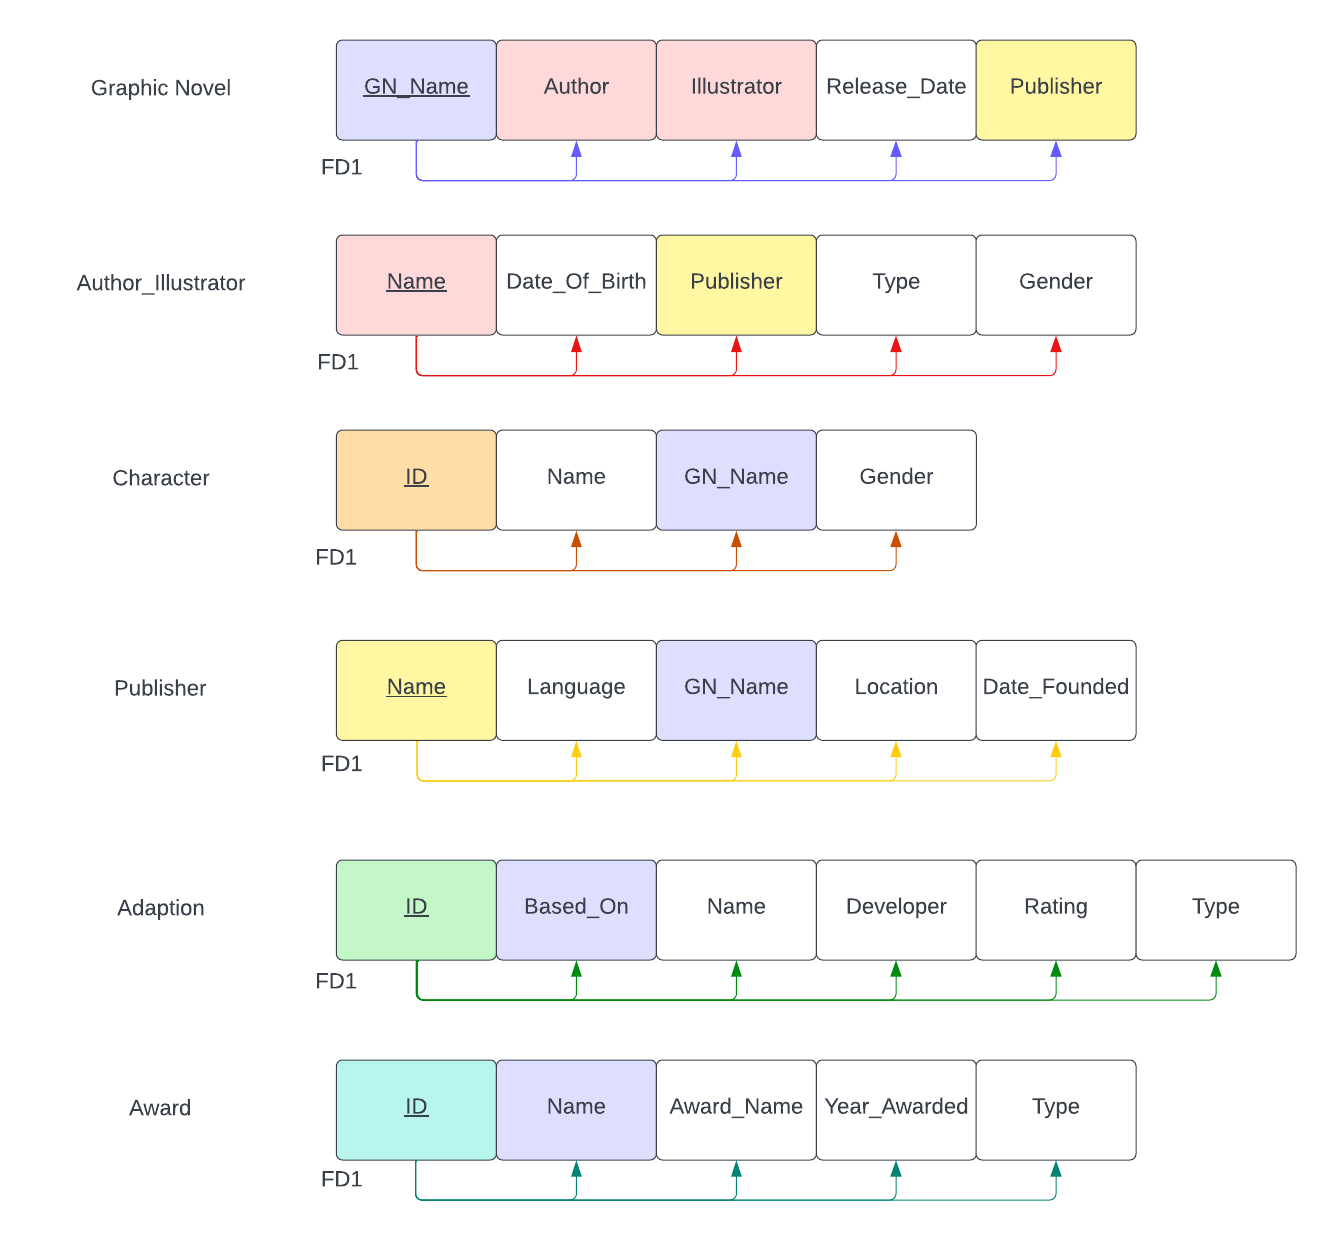
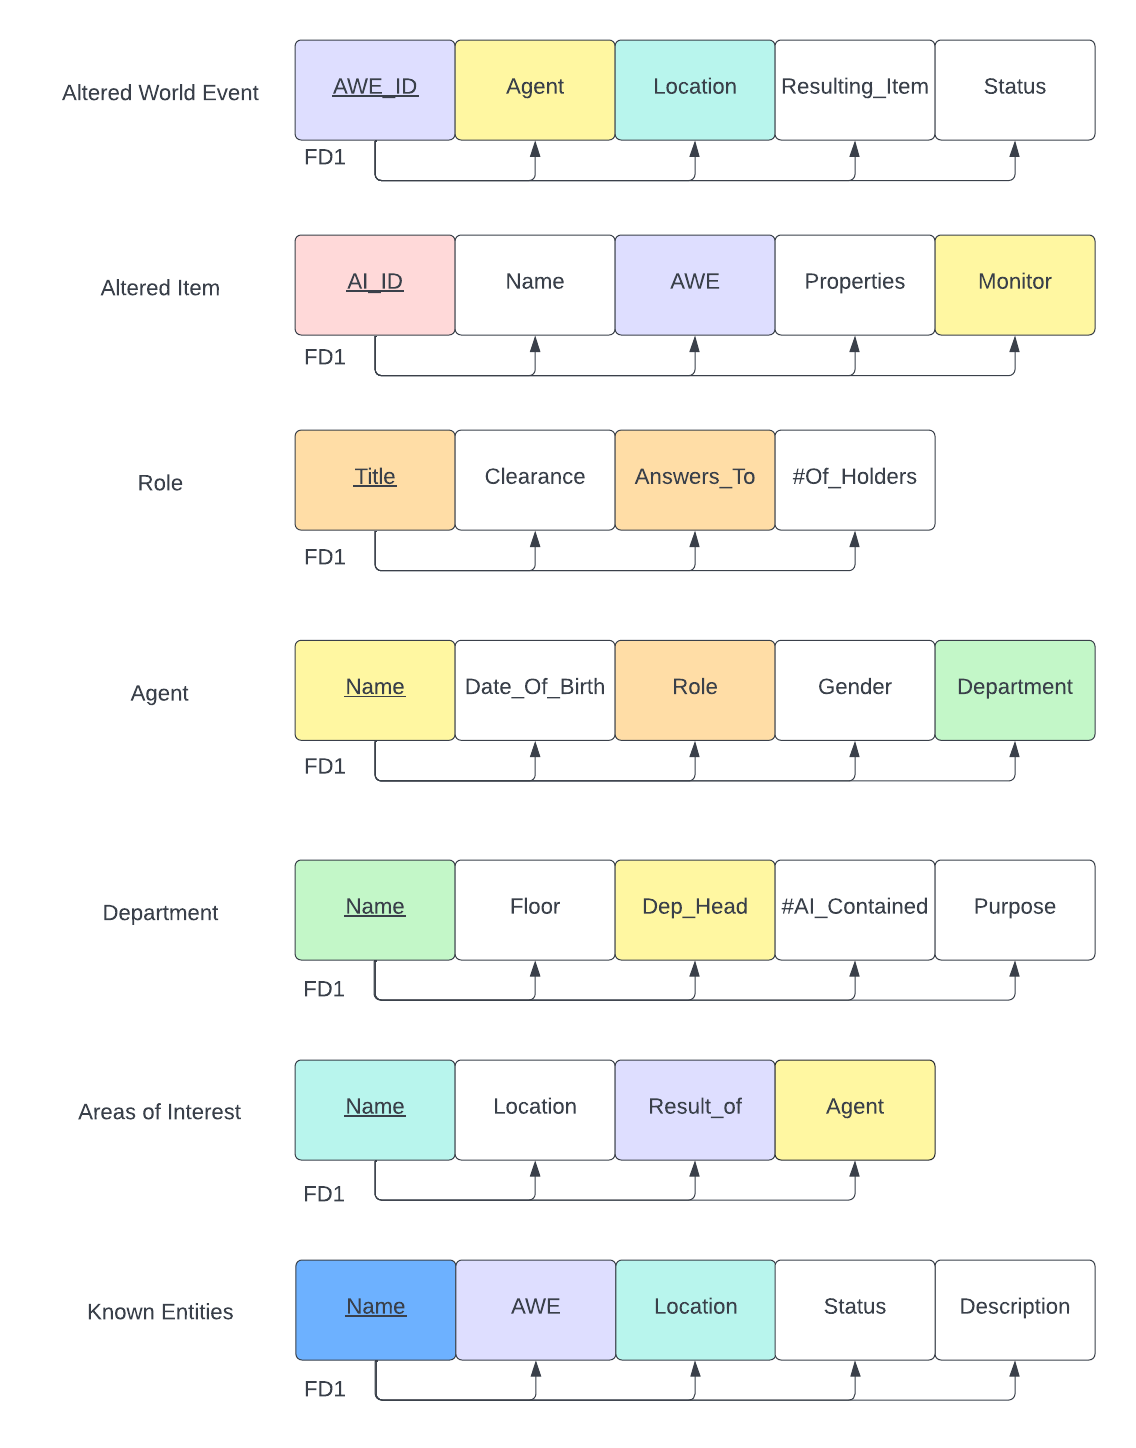
Changed direction of project and diagrams and code updated to reflect this

diff --git a/README.md b/README.md
@@ -1,3 +1,3 @@
 # InfoManagement2
-## Graphic Novel Database
-A project in which I use MySQL to create a Relational DBMS in whihc a collection of Graphic Novels are kept track of and a report is compiled at the end displaying all diagrams and explaining the logic of the entire database.
+## Federal Bureau of Control Database
+A project in which I use MySQL to create a Relational DBMS in which Altered World Events and Altered Items are kept track of. On top of Agents, Roles and Departments, bothe Areas of Interest and Known Entities are tracked. Based off of the FBC from the Remedy Entertainment game Control 
